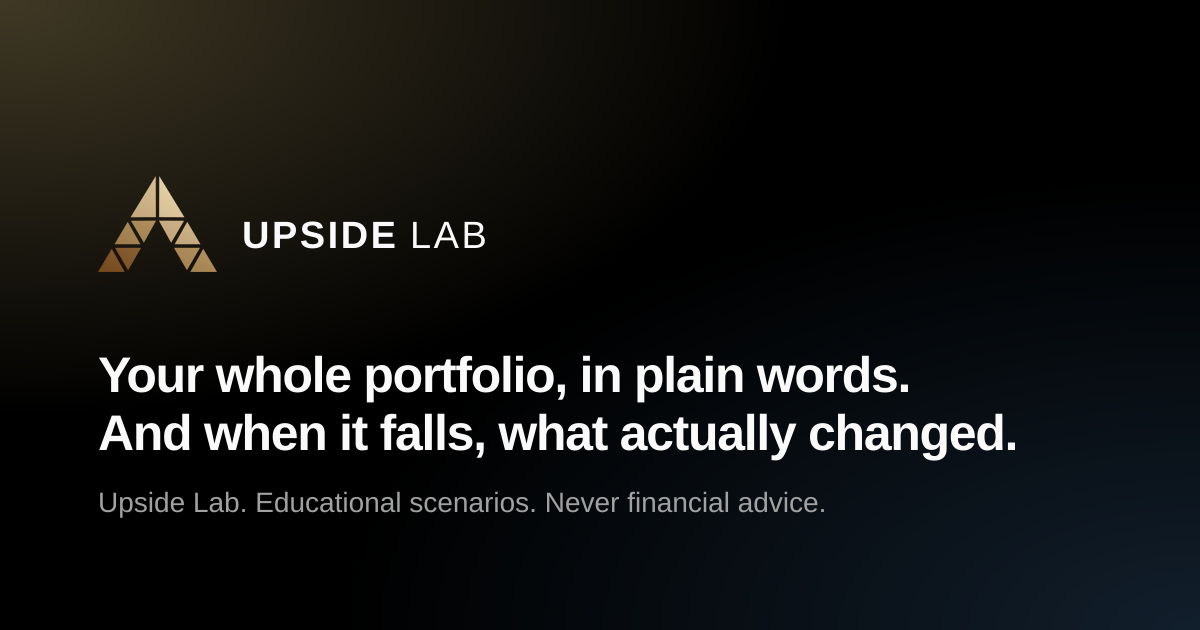
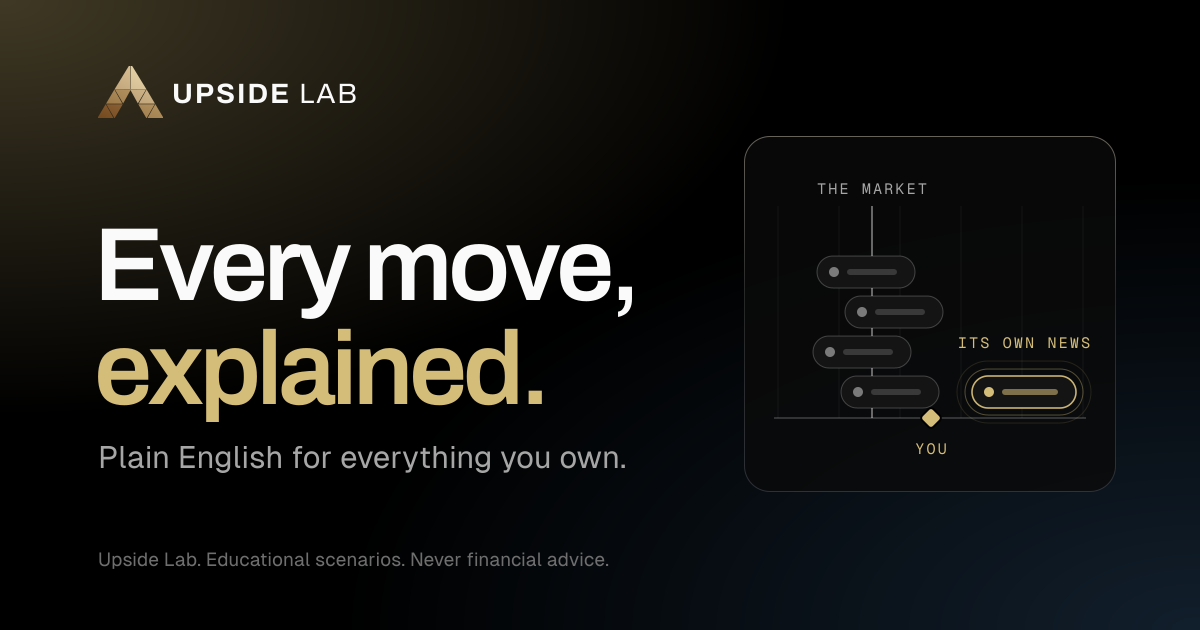
Social card: "Every move, explained." instead of "when it falls"
The card shared with every link still said "Your whole portfolio, in
plain words. And when it falls, what actually changed." It now carries
the landing's headline with "explained." in gold, "Plain English for
everything you own." under it, and the film's idea as a still: chips in
a knot around the market's line and one gold chip off on its own news.
The chips carry no company names or figures, because a card pasted into
a chat has no "made-up" label around it.

PRODUCT_HEADLINE and PRODUCT_BLURB change with it, so the page title
description reads the same way.

The card's URL was versioned by the mark's hash, which this change does
not move, so unfurlers would have kept the old image cached at the same
URL. OG_CARD_VERSION is now the hash of public/og.png itself, and
og-version.test.ts fails with the value to paste when they drift.

Claude-Session: https://claude.ai/code/session_01TzjUMSLiwJtnzwVyqmKAXc

diff --git a/src/lib/product.ts b/src/lib/product.ts
@@ -35,17 +35,18 @@ export const PRODUCT_ORIGIN = `https://${PRODUCT_DOMAIN}`;
  * falls you find out whether anything actually happened at the companies
  * you own. Pulse is how that gets answered. It is not the reason.
  *
- * This deliberately does not match the landing page's own headline, which
- * is "Everyone shows you the number. Nobody tells you what happened." Do
- * not "fix" the two to agree: they are read in different places. That one
- * is a hook with a whole page underneath it to make good on it. This one
- * is read cold, in a Slack paste or a browser tab, by somebody with
- * nothing else to go on, so it says what the product is rather than
- * setting up a question. The claim underneath both is the same.
+ * It was then "Your whole portfolio, in plain words. And when it falls,
+ * what actually changed." (until 2026-10-02), which sold the product on the
+ * falls. It is the landing's own headline now, because the landing stopped
+ * opening on a red day and became a promise rather than a question: "Every
+ * move, explained." reads as well cold, in a Slack paste or a browser tab,
+ * as it does over the picture that makes good on it, and the second line
+ * says what it covers. The social card draws the first line's last word in
+ * the brand gold, as the hero does.
  */
 export const PRODUCT_HEADLINE = [
-  "Your whole portfolio, in plain words.",
-  "And when it falls, what actually changed.",
+  "Every move, explained.",
+  "Plain English for everything you own.",
 ] as const;
 
 export const PRODUCT_SENTENCE = PRODUCT_HEADLINE.join(" ");
@@ -66,7 +67,7 @@ export const OG_CARD_LINE =
   falls, which the landing stopped doing on 2026-10-02.
 */
 export const PRODUCT_BLURB =
-  "Every move in your portfolio, explained in plain English: the whole market, or news at the company itself.";
+  "Every day it reads the companies you own and says what moved each one: the whole market, or news of its own.";
 
 /** Name used when a first-run import creates the sheet for you. */
 export const FIRST_SHEET_NAME = "My portfolio";

diff --git a/src/lib/brand/og-version.test.ts b/src/lib/brand/og-version.test.ts
@@ -1,0 +1,33 @@
+import { createHash } from "node:crypto";
+import { readFileSync } from "node:fs";
+import path from "node:path";
+import { describe, expect, it } from "vitest";
+import { OG_IMAGE_PATH } from "@/lib/seo-routes";
+import { OG_CARD_VERSION } from "./og-version";
+
+/*
+  The social card's URL moves whenever the card does.
+
+  A share image is cached by URL wherever a link is unfurled, so a card
+  regenerated at an unchanged URL keeps showing the old one. This is the
+  same "cannot be forgotten" guard `mark-version.test.ts` keeps for the
+  icons, applied to the card's own bytes.
+*/
+const ROOT = path.resolve(__dirname, "../../..");
+
+describe("the social card and its URL move together", () => {
+  it("OG_CARD_VERSION is the hash of the card that is actually in the tree", () => {
+    const expected = createHash("sha256")
+      .update(readFileSync(path.join(ROOT, "public", "og.png")))
+      .digest("hex")
+      .slice(0, 8);
+    expect(
+      OG_CARD_VERSION,
+      `public/og.png changed. Set OG_CARD_VERSION in src/lib/brand/og-version.ts to "${expected}".`
+    ).toBe(expected);
+  });
+
+  it("the card's URL carries that version", () => {
+    expect(OG_IMAGE_PATH).toBe(`/og.png?v=${OG_CARD_VERSION}`);
+  });
+});

diff --git a/src/lib/brand/og-version.ts b/src/lib/brand/og-version.ts
@@ -1,0 +1,19 @@
+/*
+  The version string on the social card's URL, `/og.png?v=<this>`.
+
+  It used to borrow `MARK_ASSET_VERSION`, the hash of the mark's geometry,
+  which was right while the only thing that ever changed the card was the
+  mark. The card's words changed on 2026-10-02 and the mark did not, so a
+  new card would have been served at the old URL, and the places a share
+  link is unfurled (Slack, X, iMessage, LinkedIn) cache that image by URL
+  for days to weeks: everybody pasting a link would have gone on seeing the
+  old card.
+
+  So the card versions itself, from its own bytes. It is the first 8 hex
+  characters of the sha256 of `public/og.png`, and `og-version.test.ts`
+  recomputes it from the file in the tree, so regenerating the card with
+  `npm run icons` and forgetting this line fails CI with the value to
+  paste. A change to the mark changes the card's bytes too, so this still
+  moves when the mark does.
+*/
+export const OG_CARD_VERSION = "07439aae";

diff --git a/src/lib/seo-routes.ts b/src/lib/seo-routes.ts
@@ -6,7 +6,7 @@
 // Relative on purpose: next.config.ts imports this file, and the config
 // transpiler follows relative imports only -- an `@/` alias here makes
 // `next start` fail to load the config at boot.
-import { MARK_ASSET_VERSION } from "./brand/mark-version";
+import { OG_CARD_VERSION } from "./brand/og-version";
 
 /** URLs that may be indexed and used as share cards. */
 export const PUBLIC_INDEX_PATHS = [
@@ -76,6 +76,8 @@ export const BOOK_ROOM_PATHS = [
   "/margus",
 ] as const;
 
-export const OG_IMAGE_PATH = `/og.png?v=${MARK_ASSET_VERSION}`;
+/* Versioned by the card's own bytes, so a new card is a new URL to every
+   unfurler that cached the old one. See `src/lib/brand/og-version.ts`. */
+export const OG_IMAGE_PATH = `/og.png?v=${OG_CARD_VERSION}`;
 export const OG_IMAGE_WIDTH = 1200;
 export const OG_IMAGE_HEIGHT = 630;

diff --git a/src/lib/reader-copy.test.ts b/src/lib/reader-copy.test.ts
@@ -185,7 +185,9 @@ describe("copy reads as a person wrote it", () => {
 
   it("paints the social card from product copy, never a hardcoded line", () => {
     const src = readFileSync("scripts/generate-pwa-icons.mjs", "utf8");
-    expect(src).toContain("${PRODUCT_HEADLINE[0]}");
+    // The first line is split so its last word can be set in gold, so the
+    // card reads it rather than interpolating it whole.
+    expect(src).toContain("PRODUCT_HEADLINE[0]");
     expect(src).toContain("${PRODUCT_HEADLINE[1]}");
     expect(src).toContain("${OG_CARD_LINE}");
     expect(src).not.toMatch(/[\u2014\u2013]/);

diff --git a/AGENTS.md b/AGENTS.md
@@ -224,7 +224,7 @@ runbooks, and `docs/POLISH_PASS.md` is the standing audit checklist.
 - **No empty leftover cells in hairline grids.** `gap-px` + `bg-border` paints every CSS grid track. Use `Segmented`, `HairlineGrid`, or `Scoreboard` so the column count always divides the children (`src/lib/filled-grid.ts`). Never hand-roll `grid-cols-N` on that pattern.
 - **24-hour clock everywhere — never AM/PM.** Every time a person reads in the app is 24-hour: 08:30 and 20:30, not 8:30 AM / 8:30 PM. Format clock readings through `formatDateTime` (`src/lib/timezone.ts`), which pins `hourCycle: "h23"` so the browser's locale still picks date order and month names but never the hour style. Do not call `toLocaleString`/`toLocaleTimeString` directly for anything with an hour in it, and do not pass `hour12`. `hour: "2-digit"` over `hour: "numeric"` so times line up in `tabular-nums` columns.
 - **Listing-currency chips only on mixed portfolios.** `TickerSymbol` shows the USD/EUR/SEK chip only when `listingCurrenciesAreMixed` is true. USD-only and EUR-only portfolios stay chip-free. Share price and average buy stay in the listing's own money; Cost / Value / gain follow the portfolio USD/EUR toggle. Table rows never wrap. Mixed portfolios left-align tickers and size that column to the cashtag+chip (`tableCols(n, true)`). Single-currency portfolios keep centered equal columns. Every table row is a fixed `h-10`. Do not add `min-h` or extra vertical padding on cells.
-- **The mark is the ten-facet gold "A", and it is drawn in exactly one place.** `src/lib/brand/mark.ts` holds the facet table; `UpsideLogo.tsx`, the favicons, the app icons, the BIMI mark, the email lockup and the OG card all draw from it, and `scripts/generate-pwa-icons.mjs` imports that module rather than rasterising a PNG out of `Images/` (which is now only a record). **The mosaic is the identity — do not replace it with a solid letter.** A branch did exactly that on 2026-08-23 and it was reverted the same day: it needed polish, not redesign. What the polish *is*: the facets are now exactly symmetric about x = 64 (the original was traced and leaned up to 0.75 units, with rows disagreeing with themselves by a tenth of a unit), and the ten near-identical per-facet gradients became four named steps of one ramp — `lit`/`face`/`edge`/`deep`, the same values, grouped. Hairlines shrink with the drawing via `facetScale()`: below 96px the facets swell about their own centroids until the gaps close, because a 3.1-unit cut is three quarters of a pixel at 32px and the mosaic turns to a gold smudge. **Square icons carry no baked corner radius** — iOS draws its own squircle, and every icon here used to arrive pre-rounded, so it got rounded twice; only the shapes nothing masks (favicons, PWA `any`) keep their own corners, and the Apple entry in `layout.tsx` is the 180 square alone. **The mark has two colourways and they are not interchangeable** (`COLOURWAYS`): `MARK` is gold on the app's true black (header, splash, email, OG, `upside-mark.svg`); `ICON` is the reverse — the warm accent as the *field*, facets in deep espresso ink — and it is what every icon, avatar and the BIMI mark use. **An app icon is not chrome.** A near-black tile reads as a hole beside the icons people actually have, so the true-black rule deliberately stops at the icon. Gold also only reads as gold while it is light, so it is either the mark on something very dark or the field — never a mark on a middling warm ground, which is where a 26% warm glow behind a gold mosaic landed (khaki on brown). **Icon plates are one linear gradient, top to bottom** — not the app's radial ambient field, which on a 128px tile is just a smudge. **Coverage is 0.66 of the tile width**, the Apple register (Music ~0.48, Messages ~0.64, Mail ~0.66); 0.80 was tried and read as crowded. Sibling rule: Lab draws **one** peak in gold because a portfolio has nobody else in it; Upside Arena draws **two** in aqua because it is a game against people you know. After changing the geometry run `npm run icons`, set `MARK_ASSET_VERSION` (`src/lib/brand/mark-version.ts`) to the new mark hash, and carry the same hash into `CACHE` in `public/sw.js` — every `?v=` (layout icons, `OG_IMAGE_PATH`, the email lockup) follows from the constant, and `mark-version.test.ts` fails until all three edits are made, printing the value to paste. Full account in `docs/BRAND_MARK.md`.
+- **The mark is the ten-facet gold "A", and it is drawn in exactly one place.** `src/lib/brand/mark.ts` holds the facet table; `UpsideLogo.tsx`, the favicons, the app icons, the BIMI mark, the email lockup and the OG card all draw from it, and `scripts/generate-pwa-icons.mjs` imports that module rather than rasterising a PNG out of `Images/` (which is now only a record). **The mosaic is the identity — do not replace it with a solid letter.** A branch did exactly that on 2026-08-23 and it was reverted the same day: it needed polish, not redesign. What the polish *is*: the facets are now exactly symmetric about x = 64 (the original was traced and leaned up to 0.75 units, with rows disagreeing with themselves by a tenth of a unit), and the ten near-identical per-facet gradients became four named steps of one ramp — `lit`/`face`/`edge`/`deep`, the same values, grouped. Hairlines shrink with the drawing via `facetScale()`: below 96px the facets swell about their own centroids until the gaps close, because a 3.1-unit cut is three quarters of a pixel at 32px and the mosaic turns to a gold smudge. **Square icons carry no baked corner radius** — iOS draws its own squircle, and every icon here used to arrive pre-rounded, so it got rounded twice; only the shapes nothing masks (favicons, PWA `any`) keep their own corners, and the Apple entry in `layout.tsx` is the 180 square alone. **The mark has two colourways and they are not interchangeable** (`COLOURWAYS`): `MARK` is gold on the app's true black (header, splash, email, OG, `upside-mark.svg`); `ICON` is the reverse — the warm accent as the *field*, facets in deep espresso ink — and it is what every icon, avatar and the BIMI mark use. **An app icon is not chrome.** A near-black tile reads as a hole beside the icons people actually have, so the true-black rule deliberately stops at the icon. Gold also only reads as gold while it is light, so it is either the mark on something very dark or the field — never a mark on a middling warm ground, which is where a 26% warm glow behind a gold mosaic landed (khaki on brown). **Icon plates are one linear gradient, top to bottom** — not the app's radial ambient field, which on a 128px tile is just a smudge. **Coverage is 0.66 of the tile width**, the Apple register (Music ~0.48, Messages ~0.64, Mail ~0.66); 0.80 was tried and read as crowded. Sibling rule: Lab draws **one** peak in gold because a portfolio has nobody else in it; Upside Arena draws **two** in aqua because it is a game against people you know. After changing the geometry run `npm run icons`, set `MARK_ASSET_VERSION` (`src/lib/brand/mark-version.ts`) to the new mark hash, and carry the same hash into `CACHE` in `public/sw.js` — every `?v=` (layout icons, the email lockup) follows from the constant, the social card versions itself from its own bytes (`OG_CARD_VERSION`, because its words change without the mark changing and an unfurler caches by URL), and `mark-version.test.ts` fails until all three edits are made, printing the value to paste. Full account in `docs/BRAND_MARK.md`.
 - **The ambient field is dithered, because eight bits are not enough for it, and the dither's mean must stay exactly zero.** Every lobe in this app is a low-alpha wash on `oklch(0 0 0)`, so the whole ramp is spent in the bottom of the range: measured on the real landing page the warm lobe covers **36 luminance levels of 255 across 840px** and the cool one 31, which is a 1/255 step held flat for **23px**. That is a contour line, not a gradient, and it is the ringing a reader sees around both corners. Re-shaping the stops cannot fix it and neither can a blur (re-quantising a blurred staircase returns the same staircase); the levels are not there to be spent. `AmbientDither` (`src/components/AmbientDither.tsx`, rendered once from the root layout) is the answer, carried by `.page-frame::before`. The landing uses those same viewport-fixed lamps; do not clip them to `100svh` (hard line at the fold), do not dither a document-tall layer (Safari tiles it), and do not paint a second glow behind the briefing. **Signed and clipped, both load-bearing.** Every CSS blend mode that lays grain over a page adds light, and measured lift was +1.6 levels for a `plus-lighter` tile and +2.3 for `overlay`, i.e. the true black the product is built on turned grey; inside a filter chain the noise is added and half of it subtracted again, and both terms are masked by `SourceAlpha` so a pixel the lobes never reach comes back untouched. Lift measures **0.000**, and pure black pixels went **up** from 0.98% of the frame to 1.37%. **Amplitude is two levels and it was measured**: one left the rings findable, three made the grain itself the artefact, two puts a riser's edge at 0.13 of the local pixel spread against 0.29 before. It is **inline, never a data URI** (Safari does not resolve a filter from one, which would leave every iPhone undithered with nothing failing) and one octave at `baseFrequency="0.8"`, so grain rather than clouds. Scroll cost: median frame 16.7ms to 16.8ms. The two amplitude numbers are typed separately and nothing on the page announces it when they drift, so `src/lib/ambient-dither.test.ts` fails if they stop being exact double and half, if either term loses its clip, or if a surface drops the filter. **Do not paint a second glow behind a sample card.** A private ramp behind the briefing is a duplicate field with a hard clip. The briefing sits on `.page-frame::before` alone. Judge any change here by measuring black lift and riser-to-noise, never by eyeballing. Full account in `DESIGN_TOKENS.md`.
 - **Glass is a 2% white veil with all of its light on the rim, and the black inside a pane is the black of the room.** The body is `--glass-veil` (`oklch(1 0 0 / 2%)`), **white and achromatic, never a tinted card**. Two measured reasons. (1) A tinted fill leaves a hue behind: `--card` is a bluish neutral and thinned over a warm field it lands on violet-grey, which is where a mauve cast on a holdings panel came from. Measured on an empty backdrop the old material's own chroma was 1.11 at hue 309; white measures 0. (2) **The veil's alpha is what sets the black floor.** At the old 55%-card fill a pane sat **nine luminance levels out of 255 above the field beside it**; at 2% the lift is −0.1. A pane whose blacks are grey is a card, not glass. **`--glass-contrast` (1.05) is the second lever and is not optional** — contrast pivots on mid-grey so it leaves true black alone, but this field is not true black (the ambient lobes sit at about five levels) and without it a pane lifts those six: measured 1.00 → +6.1, 1.02 → +3.1, 1.05 → +0.1. **Saturation is free**: 1.75 and 2.40 measure identically on black lift, so richness costs nothing. `--glass-blur` is **6px, not 40** — past roughly 7px a blur stops refracting and starts mixing adjacent hues into mud, which is the same mechanism that produced the cast. The rim came down with the fill (`--glass-rim-top` 38%, not 56%) because at this transparency the old weight read as a drawn outline rather than as light; it still takes the room's two hues, warm on top from `--primary`, cool underneath from `--ambient-cool`, with the sides unequal because the key light is off the left. **Wells are panes in their own right** (`--glass-veil-well` 3%, own 5px blur, the softest rim in the system) rather than grey boxes on a pane, because forty holdings rows must not add up to a texture. **Overlays and the dock are the surfaces that keep a heavy fill and a hard blur** — they sit over real content, which is both why they must soften it and where a heavy blur earns its keep (`.glass-overlay` at `--popover` 78%, `.glass-dock` at `--background` 55%; the dock's is field-keyed, so its alpha is exactly how much of the ambient glow it eats and it cannot leave a hue behind). Never reintroduce a falloff, a `background-image` ramp, or a tinted card fill on any glass surface. Judge a change by measuring black lift and the material's own chroma on real surfaces, never by eyeballing.
 - **The rim nearest the pointer catches the light, and the body never does (2026-09-26).** `RimLight` (`src/components/RimLight.tsx`, mounted once in `Providers`) marks the one `.card-sheen.glass` under a mouse with `data-rim` and writes `--rim-x`/`--rim-y`; `.card-sheen.glass::before` draws a warm arc there, **masked to the one-pixel rim**, so it is the glass rule above answering a hand rather than an exception to it. It needs no `position` on the card, because a backdrop filter already makes the card the containing block, which is also why the CSS is gated on that filter being supported. Mouse and trackpad only (a finger latches hover), off under reduced motion, and one rect read per frame for one element. Do not widen it into a spotlight on the card body: a lit body is a tinted fill, which is the grey-blacks fault the glass bullet measures. Its siblings are `LiveFigure` (a price that just ticked takes a short wash in the direction it moved), `CountUp` on each room's hero figure, `line-reveal` on chart lines (a clip reveal, because a dash draw-in leaves gaps on a `non-scaling-stroke` line), `overview-bar` on data bars and `.lift` on pressable cards: every one is transform, opacity or a clip, none survives reduced motion, and none moves a figure a reader is reading. **The Fund opens on `FundHero` like every other room opens on its own number** (2026-09-26): the figure at hero size with `CountUp` and `LiveFigure`, today's move beside it, and the race it is running drawn as one track (`src/lib/fund-race.ts`, pure and tested), the index above the line and Margus below in the chart's own two colours, with a sentence stating the gap in points and never a verdict. Its position cards carry the same `.lift`, live worth and a share-of-the-Fund bar the rest of the app gives a reader's own holdings, and its mix is the tall bar Lab and Circle use, so a pattern added to one room is looked for in this one too. **The Fund races the S&P 500 (SPY), not the Nasdaq 100 (Martin's call, 2026-09-26).** `FUND_BENCHMARK` is the one constant and it is more than the chart's second line: the rules read each company's strength against it, park waiting money in it and hold less in companies when it is under its 200-day average, so changing it is changing the fund. The strength bar was tuned against QQQ and was re-run unchanged against SPY rather than retuned (the numbers are on `minStrength`), and migration `20260927120000` archives the day-old QQQ run to `_archive_v2` tables and starts the Fund again, because a race drawn from one index's start price to another's finish price is not a race.
@@ -236,7 +236,7 @@ runbooks, and `docs/POLISH_PASS.md` is the standing audit checklist.
 - **A panel spaces its own children and a panel is headed by `PanelHeader`, and both rules had been written down for a year with nothing enforcing either.** This file has said since the design system was written that "a `Panel` spaces its own children, so a direct child must not add `mt-*`/`mb-*`, it gets both". Nine children were adding one anyway: `mt-4` under a `PanelHeader` in Seasonality twice, `mt-3` around Scenario's two tables, `mt-3 mb-4` on a paragraph in Trends. Every one got the panel's gap **plus** its own margin, and the spacing pass made each worse by widening the gap underneath it from 20/24 to 24/32. The second rule was never stated at all and is the one that cost more. **Six panels in Lab and Scenario opened on a bare `<h3>` with a `mt-1.5` paragraph under it, wrapped in a `<div>` so the pair counted as one child** -- and one of them carried a comment working out for itself that a title and its subtitle are one child of the panel, which is exactly what `PanelHeader` is. Measured on the real components, the cost of re-deriving it: **those rooms titled at 16px where the other 66 call sites title at 18, and hugged their subtitle at 6px where the component hugs at 8**, unchanged at every width from 360 to 1440. A reader walking from Home into Lab met a panel title one step down the type ladder for no reason they could see. The same sweep found `ForecastPanel`'s whole-portfolio well held at a flat `mx-4` inside a `padded={false}` panel whose every other row sits on `.surface-gutter`, so from `sm` up it stood 8px proud of the header above it and the footer below it. **`panel-rhythm.test.ts` holds both rules, and the way it reads a panel is the part worth keeping**: indentation rather than a parser, and **comments dropped**, because the first version read a fixed window of lines after the opening tag and the one panel whose note explains this very fault has a window that is nothing but comment -- so the check saw neither a heading nor a `PanelHeader` and passed. It also compares **which of the two comes first anywhere in the body** rather than asking whether a `PanelHeader` is present, since the fault's real shape is a `<div>` wrapping the heading and a panel that heads itself and then renders a proper header further down is still a panel that headed itself. Both were checked by putting the real bug back, in its real shape, and watching the test name the file and line.
 - **A modal is titled like the rest of the product, and its subtitle hugs like a panel's.** Five of the eight modal shells opened on `<h3 className="text-base font-semibold">` and three on `<h2 className="font-semibold">`, so "Add holding" titled at **16px** and "Import a CSV" at **18** -- two answers to one question, decided by whichever modal was written first. A modal is a card-sized surface and its title is the same tier as a panel's, which the `h2` step in `globals.css` already sets at 18px, and `h2` is also the right level for a dialog's own label. All eight are a plain `<h2>` now with **no size class at all**, because a `text-base` or a `text-lg` typed in beside it is a fourth answer waiting to happen. The title-to-subtitle gap went the same way: the product had `mt-1` in eleven places, `mt-1.5` in four and `PanelHeader`'s `mt-2` in sixty-six. It is two rules now and each is consistent with itself: **a page `<h1>` and its lede sit at `mt-1`** (six sites, all agreeing) and **a card or modal `<h2>` and its subtitle at `mt-2`** (three hand-rolled sites, agreeing with the component). `panel-rhythm.test.ts` fails on a modal shell whose first heading is not a plain `h2`.
 - **A modal steps down on a phone like every other surface, and the tables were measured and left alone.** Nine modal shells carried a flat `p-6`, 24px on every side at every width. Measured on the **real** `CashModal` rendered through `react-dom/server` at 360px: the sheet is 96% of the screen and its own padding took 48 of that, leaving **287px** to set a field in. That is the arithmetic `PANEL_PAD` steps down to avoid and that `Reading`'s own flat `p-6` was already corrected for; the modals had simply been missed, and a modal is where it costs most, because it is the surface a reader types into. `.modal-pad` is the panel's own two numbers (`@layer components`, so a call site's `p-*` still wins whole), and measured after it is **303px at 360 and 333 at 390**, with the desktop vertical stepping 24 to 28 so a dialog is no longer tighter than the panel behind it. **The safe-area floor moved into the class**, because `pb-[max(1.5rem,env(safe-area-inset-bottom))]` bolted onto each shell is the half-override problem again. `.surface-gutter` is the same two numbers sides-only, for a split modal's header and footer and for a table panel's own header row, which is `padded={false}` and so states its gutter itself: that was a flat `px-6` sitting 24px in while the rows beneath it sit at 6. **And the bleed is a class now because the test caught it the same hour**: `-mx-6 px-6` is the modal's pad restated by hand so a scroller's bar sits at the sheet's edge, and the moment the pad stepped down to 16 it pulled `FeedbackModal`'s content 8px past that edge on each side; `WelcomeTour` had written the responsive version correctly and now shares the one class. **The tables were measured and deliberately not loosened, which is the other half of the answer.** Rendered with twenty holdings at 360, 390, 430, 820 and 1440: the row is a flat **40px carrying a 20px line box**, so half of it is already air, the column gutter is 12px, and none of it moves with the width. That is tuned for what a holdings table is for, comparing twenty names down a column, and spreading a scan table out makes it worse to scan. The header is separated by its own rule at twice a row's weight, which composites to about **41/255 against 20/255** on this field, and that override was checked through `cn` rather than assumed, because a `border-border` against a base `border-border/50` is exactly the shape that silently loses. What the pass added there is the guard AGENTS.md had only ever stated in prose: the height lives on the row and a cell may not add to it.
-- **The landing sells understanding, never the red day (2026-10-02, Martin's call).** It opened "Everything is red. Was it you, or the market?" over eight red tiles, with "a fall and real news look exactly the same" under it and Circle sold on "a bad week": the lesson was right and the sale was wrong, since a product about understanding your money introduced itself as one about losing it. The hero is now **"Every move, explained."** beside **`PulseFilm`** (`src/components/landing/PulseFilm.tsx`), a made-up week played as a motion graphic: five companies as chips at their own move, the S&P 500 as a line through them, the portfolio as a gold mark under the track, and a caption for whatever stood out. Three days play in turn (a company made the day on its own news, a quiet day, the market fell while a company rose on news of its own) and the same five chips glide from day to day on a spring, so the eye follows a company. A gold sweep crosses the track as each day lands and each chip flashes as it is passed, the caption says "Reading Tuesday" while that happens and lands after it, and the figures roll. **Every number is `landing-film.ts`**, built from five of `sample-portfolio.ts`'s companies and their share counts, each day stored as moves and everything else derived; `landing-film.test.ts` holds the arithmetic, that the companies without news really sit within `FILM_MARKET_SPREAD` of the market, that no day loses the reader money, that every sentence says what its numbers say, and that no two chips touch at any width from 240 to 560px (the lanes are laid out in pixels, the in-app Pulse picture's lesson). **The first paint is the finished Monday**: it autoplays only after hydration, pauses under a resting pointer, focus, or a pressed chip, and under reduced motion nothing moves or plays by itself. Section 01 is **five feature tiles** (`FeatureTiles.tsx`: fair value zones, Margus, the Sunday letter, when could you stop, every word explained), each a small CSS loop that starts mid-cycle on a negative delay so a tile is a finished picture whenever it is first seen, and **a swipeable row on a phone** (stacked they were 1,800px of pictures before the page said who it is for). Then who it is for, the comparison, Circle ("Better with people you know", on a board of ordinary green days) and what it costs. **The comparison keeps the rows this app loses** ("Prices a few minutes behind", "No. You add holdings once"): a table where one column wins every row is an advert. **Scroll reveals are still forbidden** (`landing-paint.test.ts`): the motion is in the film and the tiles, which run regardless of scroll, never in a section arriving late. **A CSS `animation` shorthand with no name was dropped by the build**, leaving a 0s duration and a loop that silently never ran, so every loop in `landing.css` is written out whole, name first. **The one hero figure per room is `.figure-hero`** (globals.css): the ladder still stops at `text-2xl` and the invariant still refuses `text-3xl`, and this is a single named exception for the number a room exists to show (Home's total, Growth's end figure). It is in the heading face, not Geist Mono, because a monospace comma is a full cell wide and read "$28 ,501" at display size.
+- **The landing sells understanding, never the red day (2026-10-02, Martin's call).** It opened "Everything is red. Was it you, or the market?" over eight red tiles, with "a fall and real news look exactly the same" under it and Circle sold on "a bad week": the lesson was right and the sale was wrong, since a product about understanding your money introduced itself as one about losing it. The hero is now **"Every move, explained."** beside **`PulseFilm`** (`src/components/landing/PulseFilm.tsx`), a made-up week played as a motion graphic: five companies as chips at their own move, the S&P 500 as a line through them, the portfolio as a gold mark under the track, and a caption for whatever stood out. Three days play in turn (a company made the day on its own news, a quiet day, the market fell while a company rose on news of its own) and the same five chips glide from day to day on a spring, so the eye follows a company. A gold sweep crosses the track as each day lands and each chip flashes as it is passed, the caption says "Reading Tuesday" while that happens and lands after it, and the figures roll. **Every number is `landing-film.ts`**, built from five of `sample-portfolio.ts`'s companies and their share counts, each day stored as moves and everything else derived; `landing-film.test.ts` holds the arithmetic, that the companies without news really sit within `FILM_MARKET_SPREAD` of the market, that no day loses the reader money, that every sentence says what its numbers say, and that no two chips touch at any width from 240 to 560px (the lanes are laid out in pixels, the in-app Pulse picture's lesson). **The first paint is the finished Monday**: it autoplays only after hydration, pauses under a resting pointer, focus, or a pressed chip, and under reduced motion nothing moves or plays by itself. Section 01 is **five feature tiles** (`FeatureTiles.tsx`: fair value zones, Margus, the Sunday letter, when could you stop, every word explained), each a small CSS loop that starts mid-cycle on a negative delay so a tile is a finished picture whenever it is first seen, and **a swipeable row on a phone** (stacked they were 1,800px of pictures before the page said who it is for). Then who it is for, the comparison, Circle ("Better with people you know", on a board of ordinary green days) and what it costs. **The comparison keeps the rows this app loses** ("Prices a few minutes behind", "No. You add holdings once"): a table where one column wins every row is an advert. **Scroll reveals are still forbidden** (`landing-paint.test.ts`): the motion is in the film and the tiles, which run regardless of scroll, never in a section arriving late. **A CSS `animation` shorthand with no name was dropped by the build**, leaving a 0s duration and a loop that silently never ran, so every loop in `landing.css` is written out whole, name first. **The social card says the same thing**: `PRODUCT_HEADLINE` is "Every move, explained." over "Plain English for everything you own.", and `public/og.png` (drawn by `npm run icons`) sets it with the last word in gold beside the film's idea as a still, **with no company names or figures on the chips**, because a card pasted into a chat has no "made-up" label around it and "$NVDA +6.2%, its own news" would read as a claim about a real company. It is set in Archivo and Geist only when the machine running the script has them installed, so install both before regenerating it. **The one hero figure per room is `.figure-hero`** (globals.css): the ladder still stops at `text-2xl` and the invariant still refuses `text-3xl`, and this is a single named exception for the number a room exists to show (Home's total, Growth's end figure). It is in the heading face, not Geist Mono, because a monospace comma is a full cell wide and read "$28 ,501" at display size.
 - **A source that is a portfolio follows the portfolio.** Growth's starting amount was copied from "This portfolio" once, the moment it was picked, while prices were still arriving, so the picker read "This portfolio ($28,501)" over a field holding $17,574. `CompoundInterestSheet` now re-reads the chosen portfolio's value whenever it changes, and the first-visit pre-fill is no longer spent on a zero reading.
 - **The landing was 75% small type, and the fix was cutting words rather than adding air.** Measured on the running page at 390x844, counting only what a sighted reader sees (the first count included `sr-only` captions and overstated it): **685 words, 498 of them at 14px or smaller**, and eleven paragraphs of twenty words or more, the worst a 45-word one. Spacing was not the fault. The page had been written like an essay defending itself: every fact carried a sentence explaining why the fact was acceptable, which is the honest-product voice leaking out of the app and onto the one page whose job is to invite somebody in. **The rule that did the work is keep every fact, cut every justification** -- the facts are checkable and are the product, the explanations of why they are fine are the wall. After: **528 words, 199 at 14px or smaller (73% to 38%)**, three long paragraphs left, two of which are the sample cards' own content and so are the page's proof rather than prose about it. **The hero's under-button block is the case worth remembering.** It was a text link, a sixteen-word reassurance and a two-line consent sentence: three rows of small type stacked under the one thing a reader came to press, which is what made the top of the page read as fine print. It is nothing now. The link moved onto the sample card it opens, in that card's footnote row rather than its header, because in the header it truncated the company's own name at 360 and 390. The reassurance went entirely: how long it takes, that there is nothing to connect and that it is free are each said better further down. And the consent sentence was on the page twice, so the hero's copy went and the one under the closing button stays, with Terms and Privacy still linked from the footer. That last one is a judgement about consent adjacency rather than a free win, and it is one line to put back. **What the honesty tests caught is the part to carry.** Three of the cuts took out promises rather than padding -- that a co-owner sees what each of you paid, that what you paid stays yours in a circle, and that **signing in never puts you in one**, which is the auto-join guarantee this file states as a hard rule -- and `landing-claims.test.ts` and `sample-portfolio.test.ts` failed on all three inside a minute. They guard claims rather than wording, and they were right every time. **And the hero getting shorter moved `ScrollCue` between its own cases**, which is the interaction this file already warns about: at 1440x960 the sample card now ends 19px above the fold where it used to be cut, so the cue draws where it used to stand down. Re-check the cue's three cases against real viewport heights after any change to hero copy or spacing, because what decides it is where that card lands.
 - **The walkthrough was 98% small type, and the pass found it telling a beginner about a gate that does not exist.** Measured by rendering all seven screens and counting only what a sighted reader sees: **633 words, 622 of them at 14px or smaller**, with exactly **one** word anywhere larger. The screens had no hierarchy inside them at all, so the ask, the explanation and the fine print were one size. The same rule as the landing did the work, keep every fact and cut every justification, and `TourAsk` stepped to 16px, which is one line per screen and is the whole of what makes the ask findable. After: **516 words, 436 at 14px or smaller (98% to 84%)**, `FirstWeek` 185 to 110 and `Rooms` 73 to 42. The `SUNDAY_EMAIL_LINE` is printed word for word as this file requires; what went was the 47 words of caveat after it, with the one reminder mail kept as a clause. **The find is the part that matters.** `TIER_HIDDEN_META_TABS` and `TIER_HIDDEN_LAB_TABS` are empty on every tier, and this file already records that `AboutYouScreen` reads them so the walkthrough cannot describe a gate that does not exist. That was true of its dock preview and not of the hand-written copy beside it: `RoomsScreen` said Lab "arrives once you say you are comfortable, and a Risk view once you say very experienced", and the first answer's own detail line said "Lab waits until you ask for it". Both told somebody who had just called themselves new that a room was being withheld, which they can find out is untrue by pressing it, and `RoomsScreen` read the real tables zero times. What the first answer actually decides is which panels start folded away, and that is what both say now. `RoomsScreen` and the dock preview are gone now (2026-10-02) and the rule outlived them: `welcome-tour.test.ts` walks every tour file's string literals and fails on a room that waits, arrives, unlocks or is off the bar while those tables are empty; it was checked by putting the old sentence back and watching it name the file. Comments are deliberately exempt, because the removed gate is discussed in them on purpose so the next person who wants one meets the argument first.

diff --git a/docs/BRAND_MARK.md b/docs/BRAND_MARK.md
@@ -279,9 +279,13 @@ any more; they are kept only as a record.
 **After regenerating, bump the version — and the test suite refuses to let
 you forget.** A favicon is one of the few things a browser holds past a
 deploy. This used to be four separate hand edits with nothing failing when
-one was missed; now every `?v=` (layout icons, `OG_IMAGE_PATH`, the email
-lockup) imports `MARK_ASSET_VERSION` from `src/lib/brand/mark-version.ts`,
-which is the first 8 hex characters of the sha256 of `mark.ts`.
+one was missed; now every `?v=` (layout icons, the email lockup) imports
+`MARK_ASSET_VERSION` from `src/lib/brand/mark-version.ts`, which is the first
+8 hex characters of the sha256 of `mark.ts`. The social card is the one
+exception: its words can change while the mark does not, so `OG_IMAGE_PATH`
+carries `OG_CARD_VERSION` (`src/lib/brand/og-version.ts`), the hash of
+`public/og.png` itself, and `og-version.test.ts` fails with the value to paste
+whenever a regenerated card is committed without it.
 `src/lib/brand/mark-version.test.ts` fails on a mark change until:
 
 - `MARK_ASSET_VERSION` is updated to the new hash (the failure prints it),
